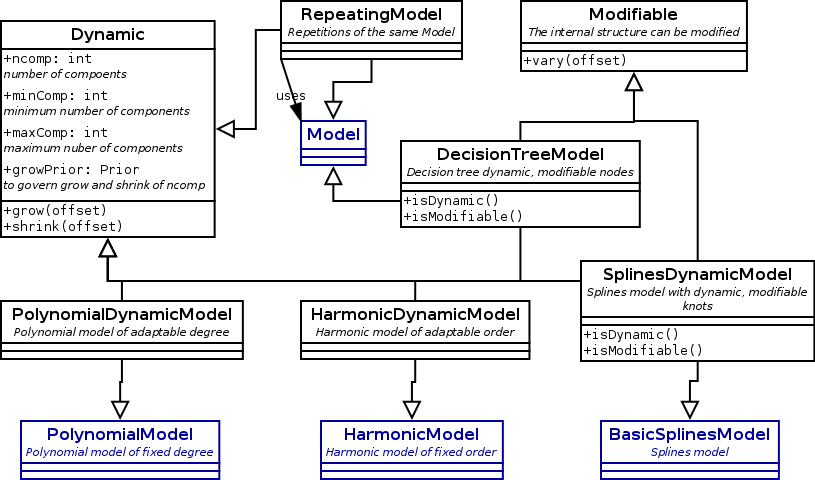
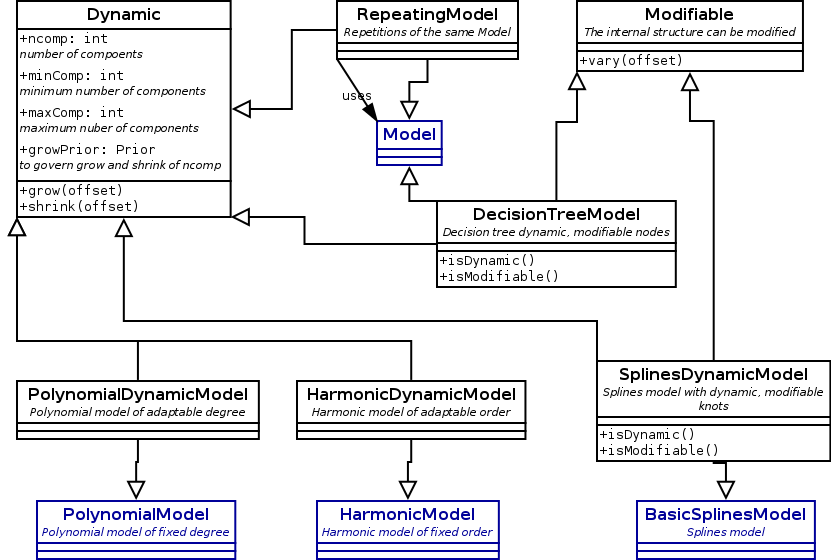
some pictures in docs

Changed region(s): [[0.0, 0.0, 1.0, 1.0]]

diff --git a/docs/design.md b/docs/design.md
@@ -343,10 +343,10 @@ figure 4.
 width="815" height="480">
 
 <map name="dynamicmap">
-  <area shape="rect" coords="300,118,368,165" href="#modelclasses" alt="Figure 1">
-  <area shape="rect" coords="20,416,220,478" href="#modelclasses" alt="Figure 1">
-  <area shape="rect" coords="320,416,502,478" href="#modelclasses" alt="Figure 1">
-  <area shape="rect" coords="600,416,780,478" href="#modelclasses" alt="Figure 1">
+  <area shape="rect" coords="373,118,443,158" href="#modelclasses" alt="Figure 1">
+  <area shape="rect" coords="36,498,256,559" href="#modelclasses" alt="Figure 1">
+  <area shape="rect" coords="315,500,500,561" href="#modelclasses" alt="Figure 1">
+  <area shape="rect" coords="636,500,813,561" href="#modelclasses" alt="Figure 1">
 </map>
 -->
 

diff --git a/docs/convention.md b/docs/convention.md
@@ -103,6 +103,9 @@ something between a separator and an operator.
 <a name="documentation"></a>
 ## Documentation<br>
 All classes and methods have a document string in which the usage is explained.
+Except when a method is clearly not fit for general use. These methods start 
+with and underscore and do not have a document string.
+  
 The attributes of the classes and the parameters of the methods are also 
-listed and explained. Some minimal examples are present in the class 
+listed and explained. Sometimes, minimal examples are present in the class 
 documentation.
